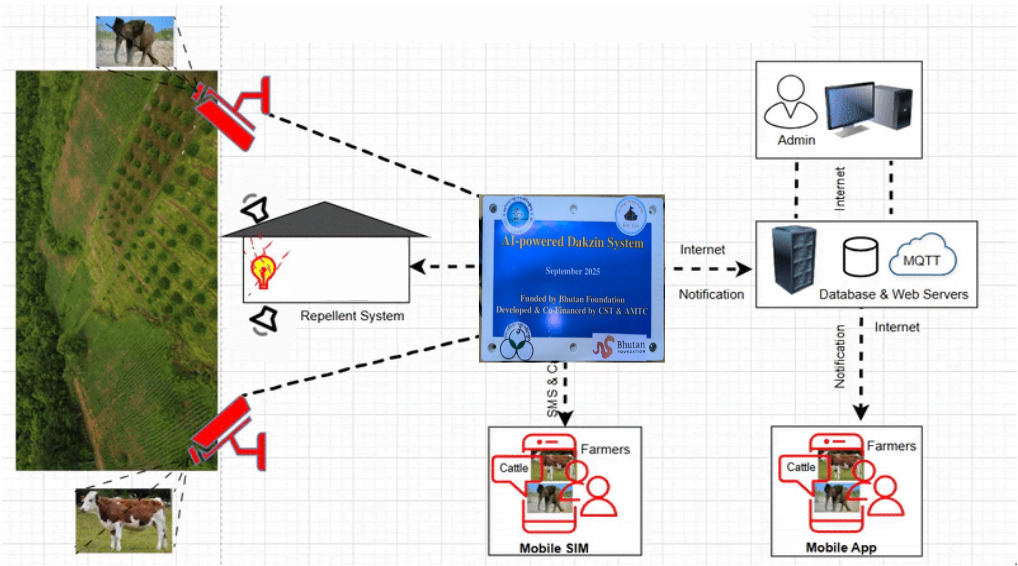
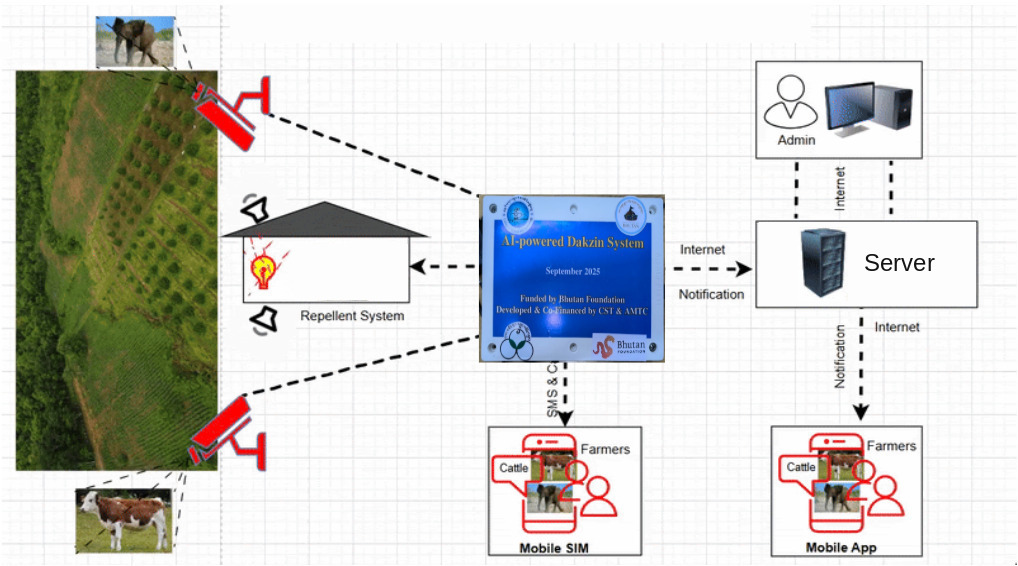
Simplify server in diagram

Changed region(s): [[0.7613, 0.3905, 0.9745, 0.5406]]

diff --git a/components/landing/ArchitectureDiagram.tsx b/components/landing/ArchitectureDiagram.tsx
@@ -49,7 +49,7 @@ const CSS = `
 
 export default function ArchitectureDiagram() {
   return (
-    <div className="ad" role="img" aria-label="Dakzin system architecture: field cameras feed the Dakzin unit, which drives the repellent system (lights, sound and a tiger doll) and sends detections over the Internet to the database and web servers with MQTT; farmers are notified on the mobile app or by SMS and call, and admins manage the system from the dashboard.">
+    <div className="ad" role="img" aria-label="Dakzin system architecture: field cameras feed the Dakzin unit, which drives the repellent system (lights, sound and a tiger doll) and sends detections over the Internet to the Dakzin server; farmers are notified on the mobile app or by SMS and call, and admins manage the system from the dashboard.">
       <style dangerouslySetInnerHTML={{ __html: CSS }} />
       {/* eslint-disable-next-line @next/next/no-img-element */}
       <img className="base" src="/pages/architecture-base.jpg" alt="" />

diff --git a/components/landing/pages.tsx b/components/landing/pages.tsx
@@ -38,7 +38,7 @@ export function HowItWorksPage() {
         <h2 className="h2" style={{ marginBottom: 12 }}>How the parts connect</h2>
         <p style={{ margin: "0 0 24px", color: "var(--dz-muted)", maxWidth: "48rem" }}>
           Cameras at the field edge feed the Dakzin unit, which drives the repellent system and
-          sends each detection over the Internet to the database and web servers (via MQTT).
+          sends each detection over the Internet to the Dakzin server.
           Farmers are notified on the mobile app, or by SMS and call when the Internet is down,
           while administrators manage everything from the dashboard.
         </p>
